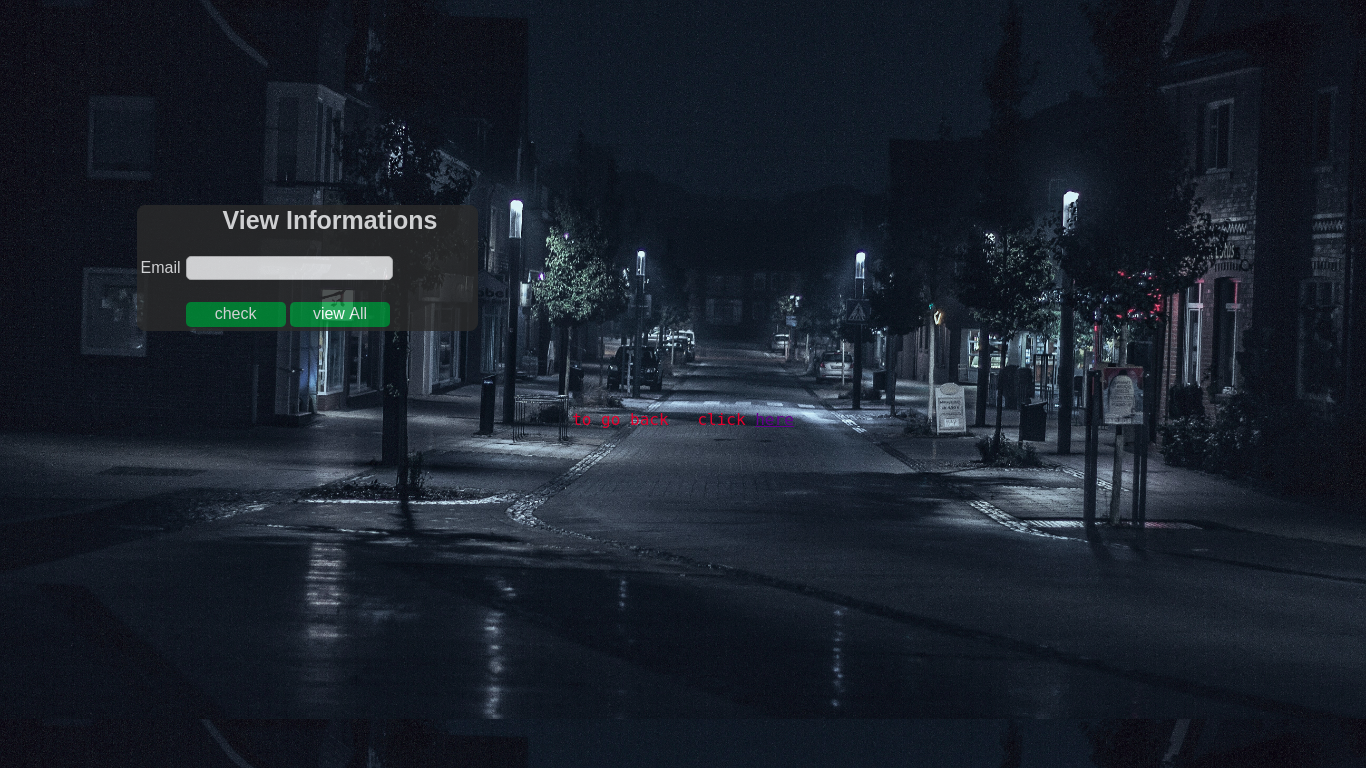
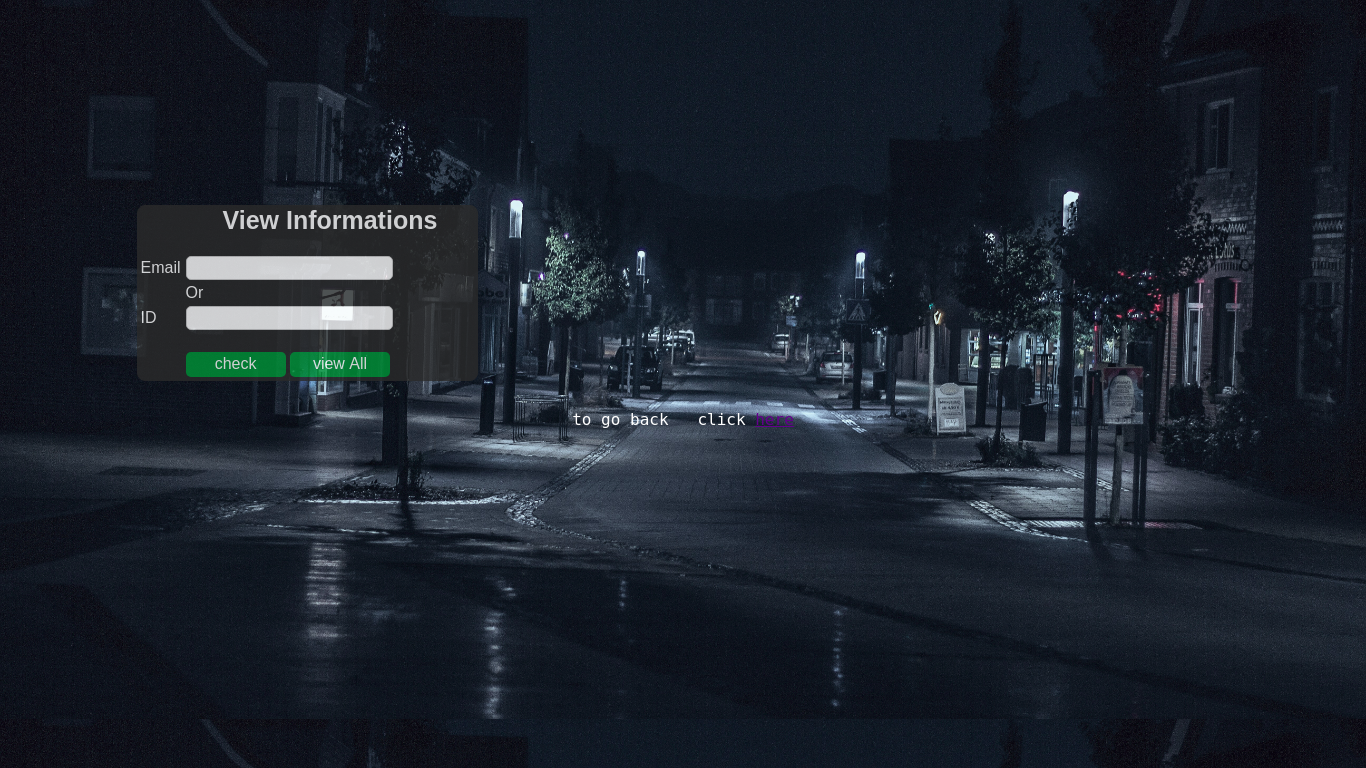
files added

Changed region(s): [[0.0922, 0.375, 0.3382, 0.5], [0.4305, 0.5312, 0.4919, 0.5625], [0.5227, 0.5312, 0.5534, 0.5625]]

diff --git a/form2.html b/form2.html
@@ -96,6 +96,16 @@
 	         			      </td>	
 	         			</tr>
 	         			<tr>
+	         			      <td>Batch</td>
+	         			      <td><select name="batch" class="d">
+	         				       <option value="Andr">Android</option>
+                                   <option value="java"  >java</option>
+                                   <option value="web"  >web development</option>
+                                   <option value="js"  >javaScript</option>
+                               </select>
+                            </td>	
+	         			</tr>
+	         			<tr>
 	         			      <td>Technical Skills</td>
 	         			      <td>
 	         			      	 <input type="text" name="skills">

diff --git a/dashboard.php b/dashboard.php
@@ -9,7 +9,7 @@
 <div class="row">
 <div class="col-6 ">
                     <div class = "Left" style="margin-right: 30%; margin-top: 30%">
-                    <form action="get.php" method="post">
+                    <form action="get.php" method="post" name="myForm">
                          <h2>View Informations</h2>
                          <br>
                        <table >
@@ -17,25 +17,46 @@
                              <tr>
                                   <td> Email</td>
                                  <td>
-                                       <input type="email" name="email" required style="width:100%;" >
+                                       <input type="email" name="email"  style="width:100%;" >
                                  </td>  
                               </tr>
+                              <tr>
+                                <td></td>
+                                <td><p>Or</p></td>
+                              </tr>
+                         <tr>
+                                  <td> ID</td>
+                                 <td>
+                                       <input type="text" name="id"  style="width:100%;" >
+                                 </td>  
+                         </tr>
                            <tr>
                               <td></td>
                               <td >
                                    <br>
-                                   <input class="button" type="submit" name="check" value="check" style="width: 100px">
+                                   <input class="button" type="submit" name="check" value="check" onclick="validateAndSend()" style="width: 100px">
                                    <a href="all.php"><button class="button" style="width: 100px;border-radius: 5px" name="button" value="OK" type="button">view All</button></a>
                               </td>
                          </tr>
                </table>
                 </form>
-               
+                 <script>
+                 jQuery(function ($) {
+    var $inputs = $('input[name=email],input[name=id]');
+    $inputs.on('input', function () {
+        // Set the required property of the other input to false if this input is not empty.
+        $inputs.not(this).prop('required', !$(this).val().length);
+            window.history.back();
+
+    });
+});
+        
+                </script> 
            </div>
       </div>
  </div>
      </div>
-     <pre style="text-align:center;color:#db3236;font-size:16px;padding-top: 30%">to go back   click <a href="form2.html">here</a></pre> 
+     <pre style="text-align:center;color:white;font-size:16px;padding-top: 30%">to go back   click <a href="form2.html">here</a></pre> 
 </body>
 </html>
 

diff --git a/form.php b/form.php
@@ -13,11 +13,31 @@ $duration=  htmlspecialchars($_POST['duration']);
 $doc     =  htmlspecialchars($_POST['doc']);
 $skills  =  htmlspecialchars($_POST['skills']);
 $ion     =  htmlspecialchars($_POST['ion']);
+$batch   =  htmlspecialchars($_POST['batch']);
+
+
 $con = mysqli_connect("localhost","root","","regform");
 
-$query = "INSERT  INTO form (name,collage,branch,year,address,phno,email,fname,fno,toi,duration,doc,skills,ion) VALUES ('$name','$collage','$branch','$year','$address','$phno','$email','$fname','$fno','$toi','$duration','$doc','$skills','$ion')";
-#echo "$query";
-$result = mysqli_query($con,$query);
+$query1 = "SELECT count(*) FROM form where batch='$batch'";
+$result = mysqli_query($con,$query1);
+$count = mysqli_fetch_array($result);
+
+echo $count[0];
+echo '<br>';
+ $total = $count[0] + 1;
+ $id = $batch.$total.date('M').date("y");
+ echo $id; 
+
+$query2 = "INSERT  INTO form (name,collage,branch,year,address,phno,email,fname,fno,toi,duration,doc,skills,ion,batch,id) 
+VALUES ('$name','$collage','$branch','$year','$address','$phno','$email','$fname','$fno','$toi','$duration','$doc','$skills','$ion','$batch','$id')";
+/*
+$query2 = "INSERT  INTO form (name,collage,branch,year,address,phno,email,fname,fno,toi,duration,doc,skills,ion,batch,id) 
+VALUES ('$name','$collage','$branch','$year','$address','$phno','$email','$fname','$fno','$toi','$duration','$doc','$skills','$ion','$batch',( SELECT '$batch'+ count(*) + '$y'  FROM form WHERE batch='$batch' ))";
+
+echo $query2;
+*/
+
+$result = mysqli_query($con,$query2);
 ?>
 <html style="background-image: url('b1.jpg'); background-size: 100%">
 <?php
@@ -27,10 +47,11 @@ if($result){
 }
 
 else{
-	echo '<h3 style="color:red;text-align:center;font-size:16px">Some Error Occured :( </h3>';
+	echo '<h3 style="color:red;text-align:center;font-size:16px">Some Error Occured :( <br>   or You have entered that email already taken . </h3>';
 	echo '<pre style="text-align:center;color:#4885ed;font-size:16px">to go back to the Registration page  click <a href="form2.html">here</a></pre>';
        
 }
 
 ?>
 </html>
+

diff --git a/get.php b/get.php
@@ -1,10 +1,10 @@
 <?php
 
 $email = $_POST['email'];
-
+$id = $_POST['id'];
 $con = mysqli_connect('localhost','root','','regform');
 
-$query = "SELECT * FROM form WHERE email='$email'";
+$query = "SELECT * FROM form WHERE email='$email' OR id='$id'";
 
 $result = mysqli_query($con,$query);
 
@@ -20,6 +20,10 @@ if($num == 1){
 	<tr>
 	   <td style="padding: 5px">Name</td>
 	   <td style="padding: 5px"><?php echo $array[0]; ?></td>
+    </tr>
+    <tr>
+	   <td style="padding: 5px">ID</td>
+	   <td style="padding: 5px"><?php echo $array[14]; ?></td>
     </tr>
     <tr>
 	   <td style="padding: 5px">Collage</td>
@@ -72,6 +76,10 @@ if($num == 1){
 	<tr>
 		<td style="padding: 5px">Internship On</td>
 		<td style="padding: 5px"><?php echo $array[13]; ?></td>
+	</tr>
+	<tr>
+		<td style="padding: 5px">Batch</td>
+		<td style="padding: 5px"><?php echo $array[15]; ?></td>
 	</tr>
 
 		

diff --git a/all.php b/all.php
@@ -11,19 +11,19 @@ $array = mysqli_fetch_array($result);
 
 <html style="background-image: url('b1.jpg'); background-size: 100%">
 <table  align="center"  style="background-color: #272727;border-radius: 5px;opacity: 0.8;color: white; font-size: 18px">
-<th> S.no </th>
+<th> ID </th>
 <th> Name </th>
 <th> email</th>
 
 <?php
-$i = 1;
+
 do{
  echo '<tr>';
- echo '<td style="padding: 5px">'.$i.'</td>';
+ echo '<td style="padding: 5px">'.$array[14].'</td>';
  echo '<td style="padding: 5px">'.$array[0].'</td>';
  echo '<td style="padding: 5px">'.$array[6].'</td>';
  echo '</td>';
- $i=$i+1;
+ 
 }while($array = mysqli_fetch_array($result));
 echo '<pre style="text-align:center;color:#f4c20d;font-size:16px">to go back to the Registration page  click <a href="form2.html">here</a></pre>';
 	?>

diff --git a/login.php b/login.php
@@ -1,13 +1,13 @@
-<?
+<?php
 
-$con=mysqli_connect("localhost","root","","regform");
+$con = mysqli_connect("localhost","root","","regform");
 
- $username=htmlspecialchars($_POST['username']);
+ $username = htmlspecialchars($_POST['username']);
 
- $password=htmlspecialchars($_REQUEST['password']); 
+ $password = htmlspecialchars($_REQUEST['password']); 
 
- $query= "SELECT * FROM admin WHERE username='$username' AND password='$password'";
-
+ $query = "SELECT * FROM admin WHERE username='$username' AND password='$password'";
+  echo $query;
 $result = mysqli_query($con,$query);
 $num = mysqli_num_rows($result);
 echo $num;
@@ -16,7 +16,7 @@ if($num==1){
 	header('location:dashboard.php');
 }
 else{
-header('location:form2.html');
+ header('location:form2.html');
 } 
 
 
